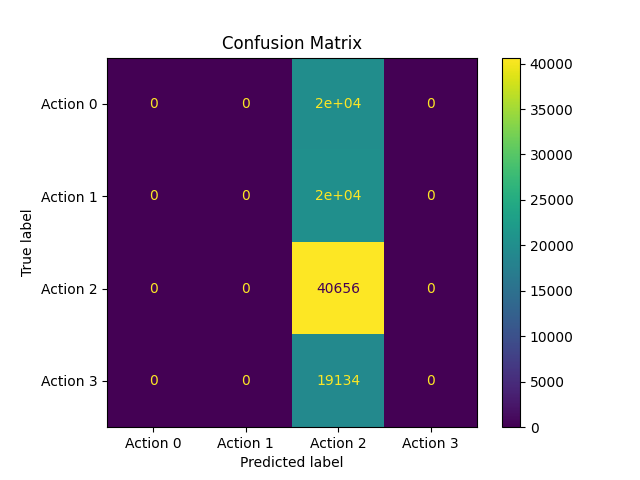
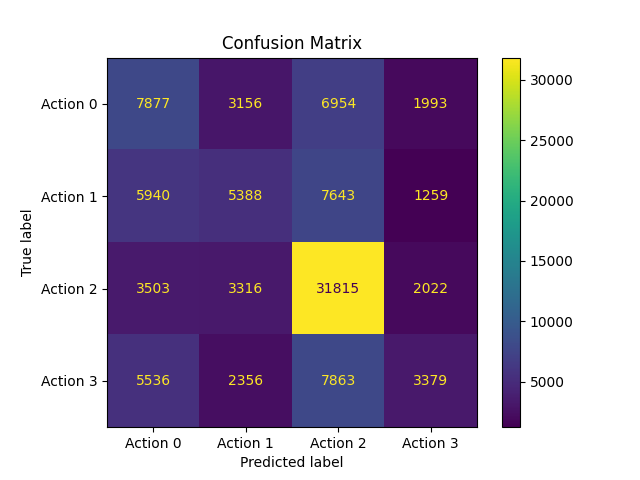
First test

diff --git a/fix_dataset_test.py b/fix_dataset_test.py
@@ -40,7 +40,7 @@ optimizer_bf = optim.Adam(params=bf.parameters(), lr=learning_rate)
 ovn = OptimisticValueNetwork(state_space, action_space, hidden_size=64, gamma=gamma, seed=1, device=device).to(device)
 optimizer_ovn = optim.SGD(params=ovn.parameters(), lr=ovn_update_rate)
 
-for iter in tqdm(range(500)):
+for iter in tqdm(range(500 * 800)):
     optimizer_bf.zero_grad()
     optimizer_ovn.zero_grad()
 
